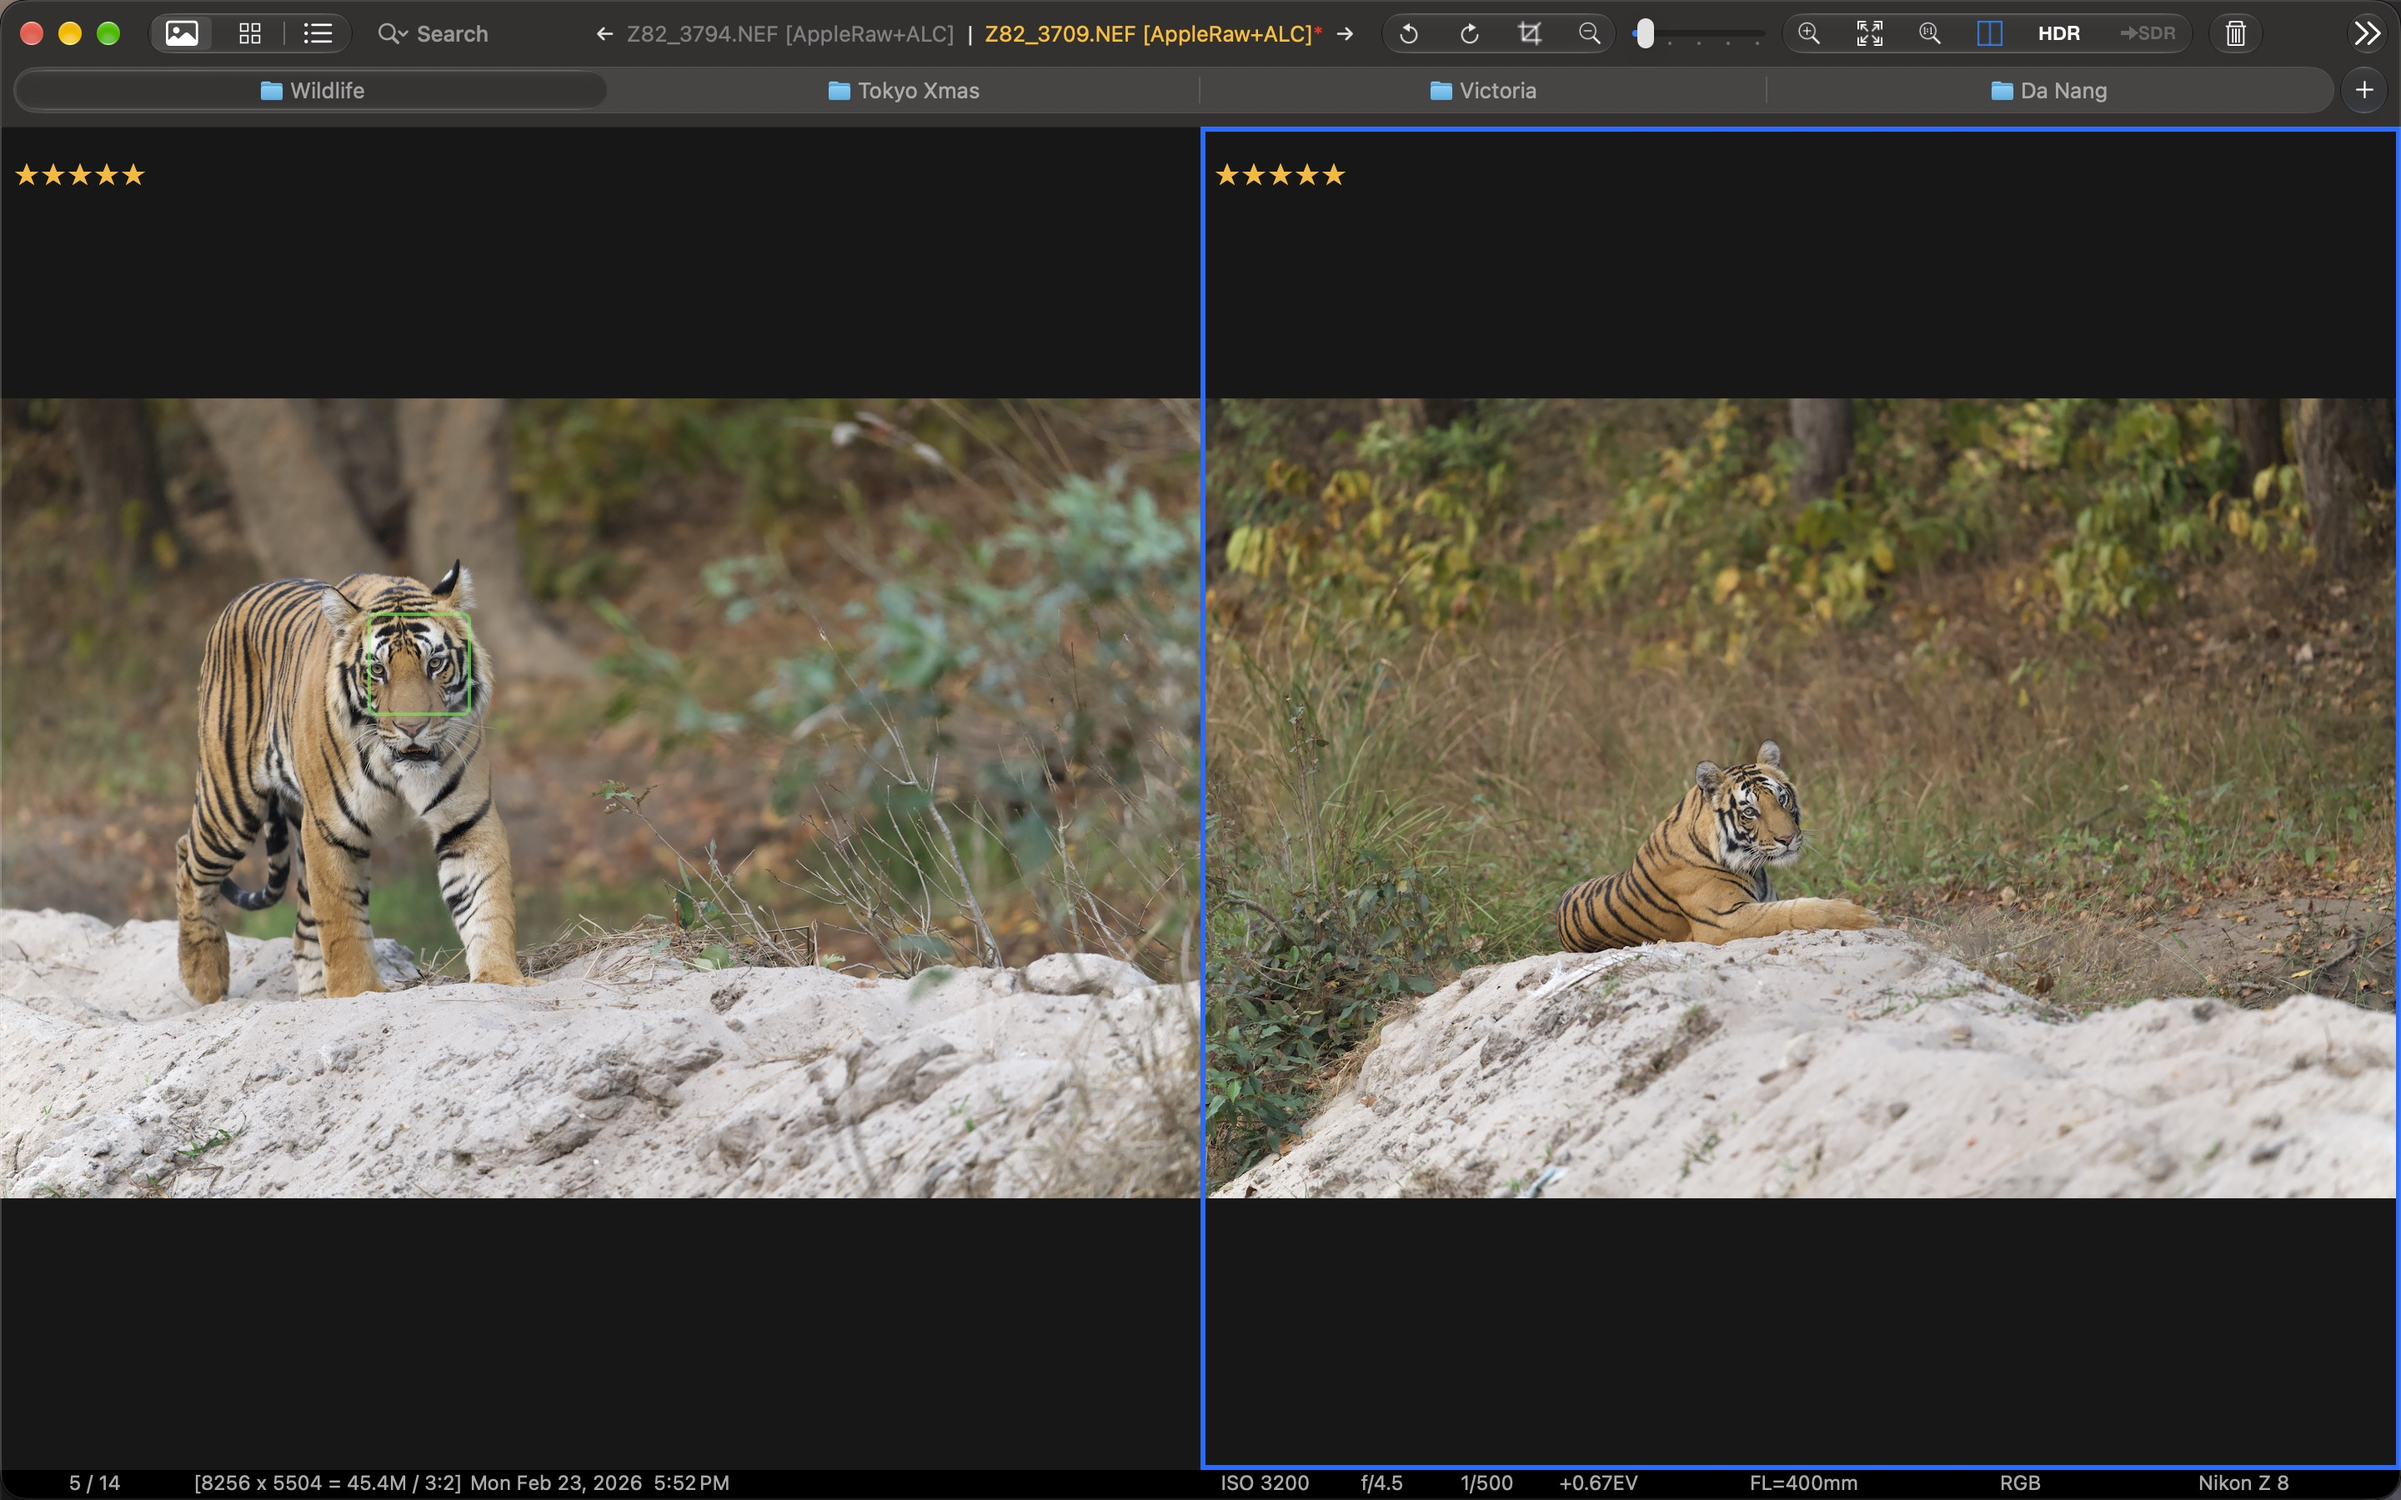
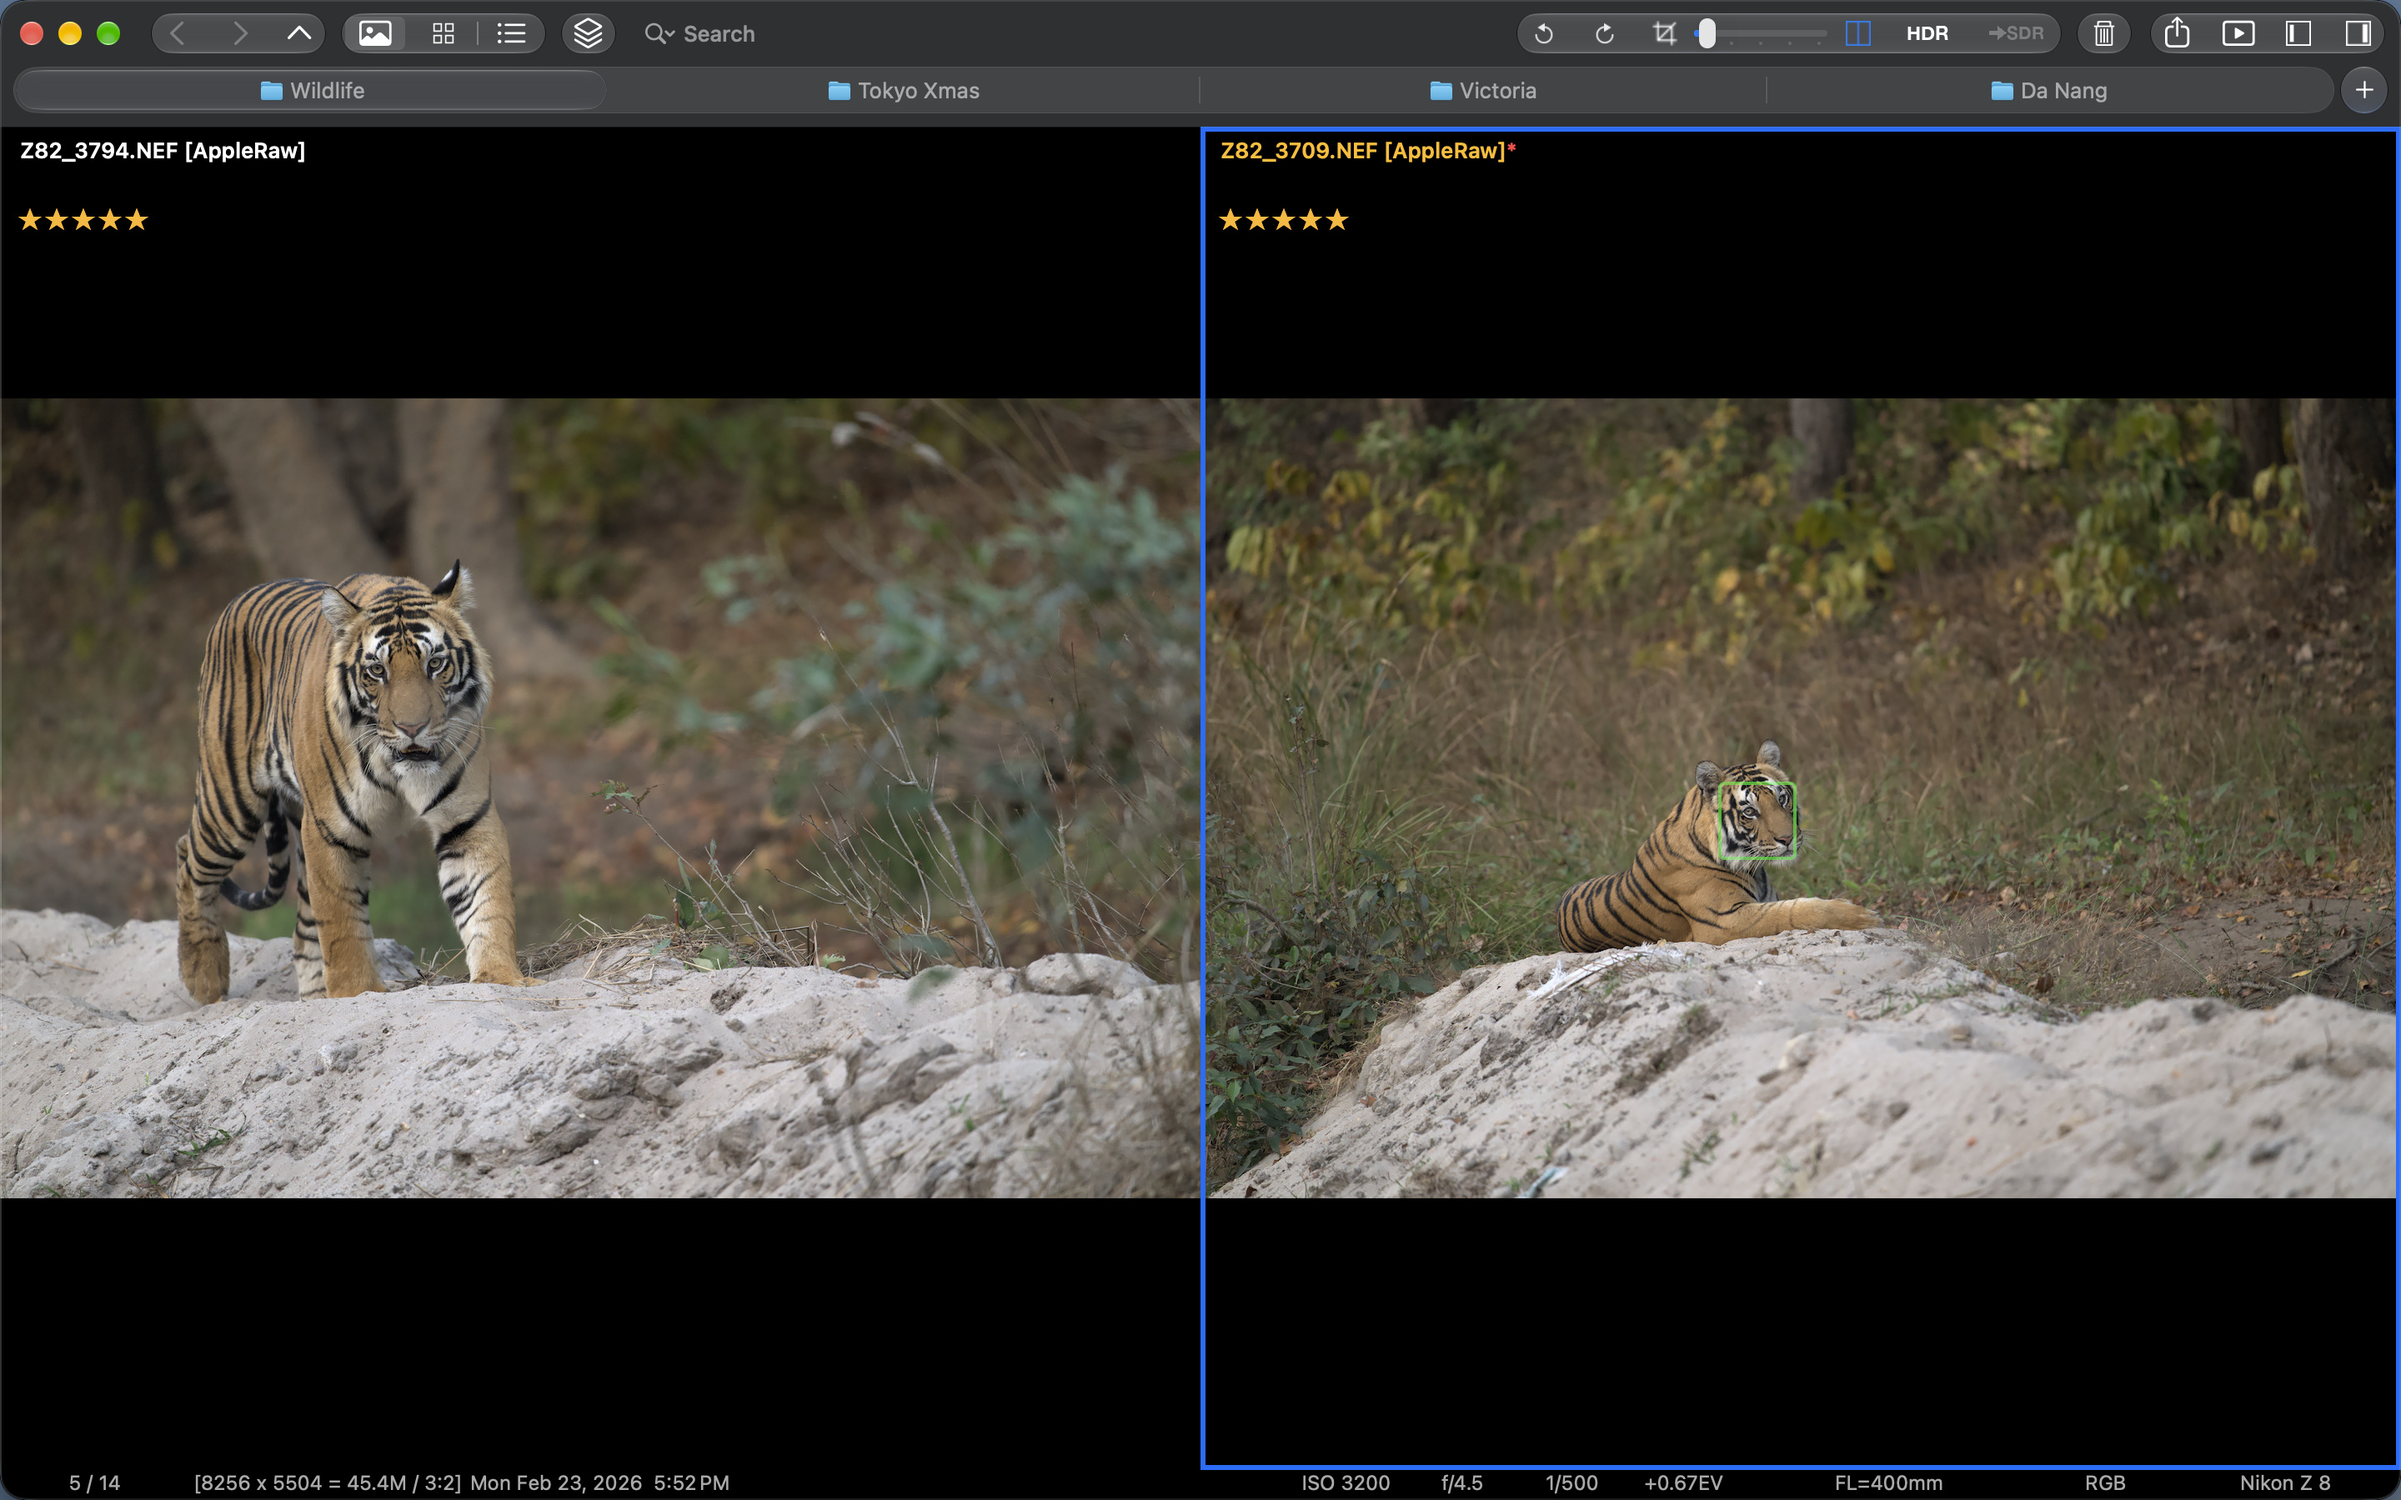
ApolloOne page: side-by-side comparison screenshot re-shot, with each half's filename at its top-left as the current build shows it (?v=20260927)

diff --git a/apolloone.html b/apolloone.html
@@ -223,7 +223,7 @@
         <p>Two images side by side with <strong>synchronized zoom</strong>, to pick the best frame of a burst or compare RAW with JPEG.</p>
     </div>
     <div class="feature-image">
-        <img src="images/apolloone-split-view.jpg?v=20260917" alt="ApolloOne side-by-side comparison of two frames with synchronized zoom" loading="lazy">
+        <img src="images/apolloone-split-view.jpg?v=20260927" alt="ApolloOne side-by-side comparison of two frames with synchronized zoom" loading="lazy">
     </div>
 </section>
 
